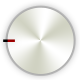
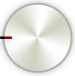
Fixed images and set knob positions (will have to correct the deck image)

Changed region(s): [[0.0, 0.0263, 0.9867, 0.9474], [0.4267, 0.9211, 0.5867, 0.9737], [0.4533, 0.4474, 0.5333, 0.5263]]

diff --git a/plugins/MorningStar/MorningStar.js b/plugins/MorningStar/MorningStar.js
@@ -14,7 +14,7 @@ define(['require'], function(require) {
     /* This gets called when all the resources are loaded */
     var pluginFunction = function (args, resources) {
         var synth = resources[0];
-        var blacKnobImage = resources[1];
+        var blackKnobImage = resources[1];
         var whiteKnobImage = resources[2];
         var deckImage = resources[3];
         var keyBlackImage = resources[4];
@@ -87,7 +87,60 @@ define(['require'], function(require) {
                 blackKeyArgs.ID = "bk_" + i;
                 this.ui.addElement(new K2.Button(blackKeyArgs), {zIndex: 10});
             }
-            this.ui.refresh();
+            
+        this.knobDescription = [ {id: 'envelope', init: 0, type: 'white'},
+                                 {id: 'release', init: 0, type: 'white'},
+                                 {id: 'cutoff', init: 0, type: 'white'},
+                                 {id: 'resonance', init: 0, type: 'white'},
+                                 {id: 'reverb', init: 0, type: 'black'},
+                                 {id: 'distortion', init: 0, type: 'black'},
+                                 {id: 'volume', init: 0, type: 'black'},
+                              ];
+        /* KNOB INIT */
+       var knobArgs = {
+            ID: '',
+            left: 0 ,
+            top: 0,
+            image : null,
+            sensitivity : 5000,
+            initAngValue: 270,
+            startAngValue: 218,
+            stopAngValue: 501,
+            onValueSet: function (slot, value) {
+                this.ui.refresh();
+            }.bind(this),
+            isListening: true
+        };
+        
+        var whiteInit = 44;
+        var whiteSpacing = 165;
+        var blackInit = 346;
+        var blackSpacing = 101;
+        var whiteTop = 34;
+        var blackTop = 180;
+        
+        for (var i = 0; i < this.knobDescription.length; i+=1) {
+            var currKnob = this.knobDescription[i];
+            
+            knobArgs.ID = currKnob.id;
+            
+            if (currKnob.type === 'white') {
+                knobArgs.image = whiteKnobImage;
+                knobArgs.top = whiteTop;
+                knobArgs.left = (whiteInit + i * whiteSpacing);
+             }
+            else if (currKnob.type === 'black') {
+                knobArgs.image = blackKnobImage;
+                knobArgs.top = blackTop;
+                knobArgs.left = (blackInit + (i - 4) * blackSpacing);
+            }
+             
+            this.ui.addElement(new K2.RotKnob(knobArgs));
+            var initValue = currKnob.init;
+            this.ui.setValue ({elementID: knobArgs.ID, value: initValue});
+        }    
+            
+        this.ui.refresh();
         
   	};
   
